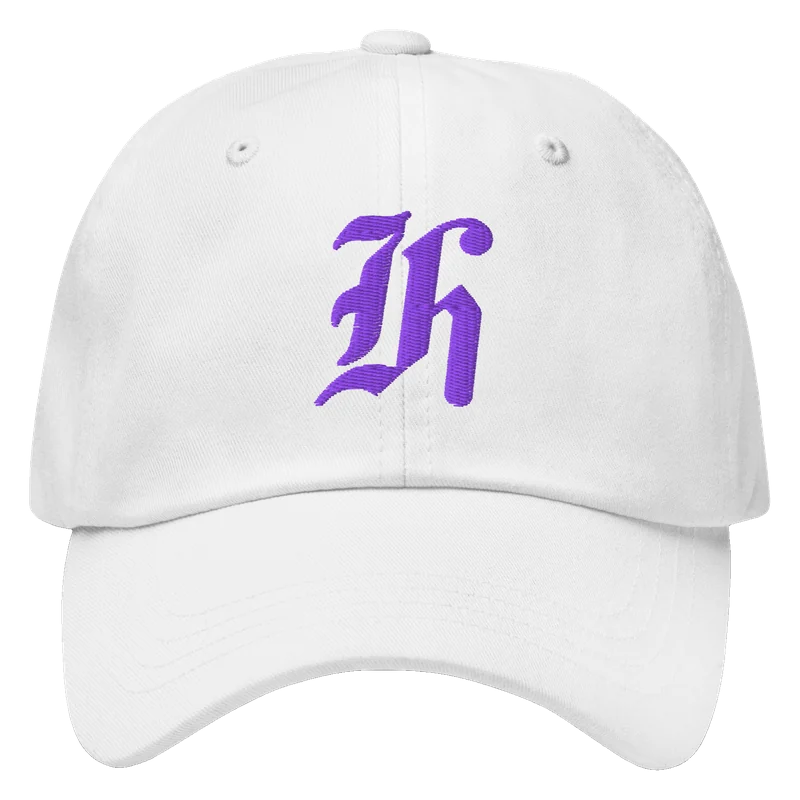
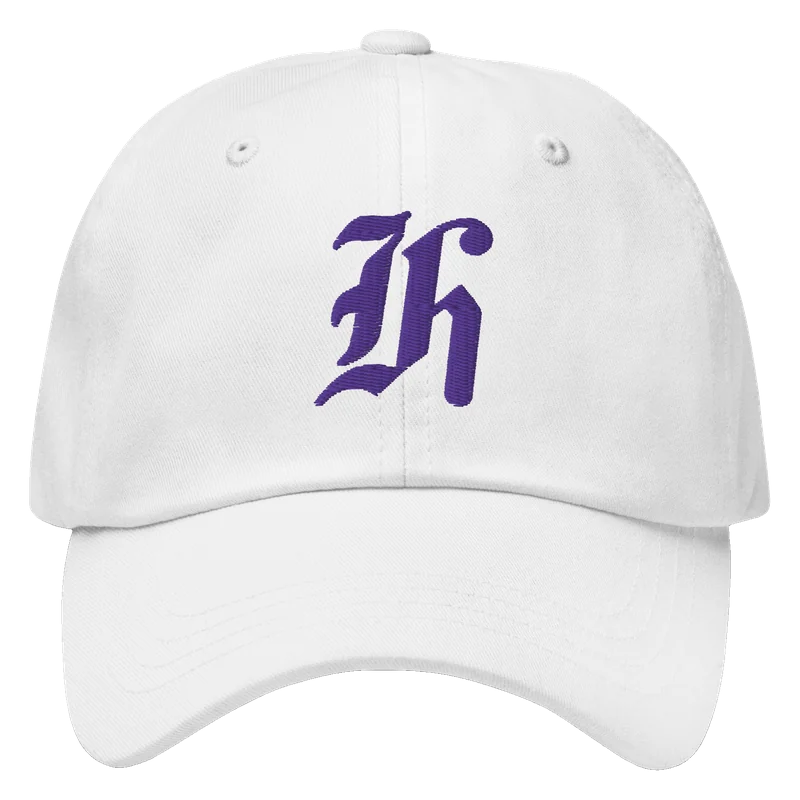
Hattiesburg polish: postcard letters lift + ribbon names the place (legend removed); black leads two tee cards; OE hat purple corrected
- Hero: the OS-style tooltip pill and red focus ring are gone, and so is the letter legend under the
  postcard (it duplicated the Shop by place cards two sections down and asked shoppers to decode
  letters). On fine pointers, hovering a letter lifts it off the card and the postcard's own red
  ribbon swaps "THE HUB CITY · MISSISSIPPI" for the place's name in the same Oswald lettering.
  Sprites and ribbon captions are cut from the same deterministic render (pixel-identical outside
  the ribbon text), ~190 KB per layout, loaded on first hover only (touch taps go straight to the
  place, 0 extra requests). Keyboard focus shows the lift + caption plus a 2px ink ring; reduced
  motion drops the lift.
- Cards: Camelot Music Cloverleaf Sign Tee and Albert Speed's Restaurant Sign Tee now lead with
  black (family order + START_HERE), so they differ from the white/natural tee beside them.
- Old English H hat: Printful's mockup renders thread 1832 (Madeira "Majestic Purple") as a vivid
  violet (#8147CD); Printful's swatch is #6B5294 and the supplier's cone photo reads ~#321968.
  The site's hat views (and its two on-model shots, now local photos via PHOTO_IMAGES) are pulled
  to L*30/C*48 so the listing shows the deep purple that actually ships.
- Hammond: markup unchanged; only the shared hero CSS rules differ.

Claude-Session: https://claude.ai/code/session_01TqhzTg1EJZZfGMFmW7WiyP

Changed region(s): [[0.4062, 0.25, 0.625, 0.5312]]

diff --git a/src/v2/v2.css b/src/v2/v2.css
@@ -116,17 +116,20 @@ p, li, figcaption { text-wrap: pretty; }
 .hb-hero__art { position: relative; margin: 0; }
 .hb-hero__card { position: relative; border-radius: 6px; box-shadow: 0 2px 4px rgba(30,26,22,.12), 0 18px 44px rgba(30,26,22,.20); background: #f7f2e6; }
 .hb-hero__card img { width: 100%; height: auto; border-radius: 6px; }
-.hb-hero__card a.hb-hot { position: absolute; border-radius: 10px; }
-.hb-hero__card a.hb-hot:hover, .hb-hero__card a.hb-hot:focus-visible { box-shadow: 0 0 0 3px rgba(255,255,255,.9), 0 0 0 6px var(--brick); }
-.hb-hero__cap { margin: 14px 0 0; font-size: 13.5px; color: var(--ink-2); text-align: center; }
-.hb-legend { list-style: none; display: flex; flex-wrap: wrap; justify-content: center; gap: 6px 8px; margin: 10px 0 0; padding: 0; }
-.hb-legend a { display: inline-flex; align-items: center; gap: 7px; min-height: 30px; padding: 3px 10px 3px 4px; border-radius: 999px; background: var(--card); border: 1px solid var(--line); text-decoration: none; font-size: 13px; font-weight: 550; color: var(--ink); white-space: nowrap; }
-.hb-legend a:hover { border-color: var(--ink); }
-.hb-legend b { font: 800 11px/1 var(--sans); letter-spacing: .08em; background: var(--ink); color: var(--card); padding: 5px 7px; border-radius: 999px; }
-@media (hover: hover) and (min-width: 901px) {
-  .hb-hero__card a.hb-hot::after { content: attr(data-label); position: absolute; left: 50%; bottom: calc(100% + 10px); transform: translateX(-50%); white-space: nowrap; background: var(--ink); color: var(--card); font: 600 13px/1 var(--sans); padding: 8px 11px; border-radius: 8px; opacity: 0; pointer-events: none; transition: opacity .15s; }
-  .hb-hero__card a.hb-hot:hover::after, .hb-hero__card a.hb-hot:focus-visible::after { opacity: 1; }
-}
+/* Postcard letters: hovering (fine pointer) or focusing a letter lifts it off the card and the ribbon names its place.
+   No tooltip chrome; touch taps go straight to the place. The keyboard focus ring is the card's own ink. */
+.hb-hero__card a.hb-hot { position: absolute; z-index: 3; border-radius: 12px; outline: none; }
+.hb-hero__card a.hb-hot:focus-visible { box-shadow: 0 0 0 2px var(--card), 0 0 0 4px var(--ink); }
+.hb-pop { position: absolute; inset: 0; z-index: 2; pointer-events: none; }
+.hb-pop img { position: absolute; display: block; opacity: 0; max-width: none; border-radius: 0; }
+.hb-pop img:not([src]) { visibility: hidden; }
+.hb-pop__l { transform-origin: 50% 85%; transition: opacity .12s ease, transform .2s cubic-bezier(.2,.7,.3,1.2), filter .2s ease; }
+.hb-pop__l.is-on { opacity: 1; transform: translateY(-3.5%) scale(1.06) rotate(-1.2deg); filter: drop-shadow(0 10px 10px rgba(22, 30, 58, .38)) saturate(1.08); }
+.hb-pop__cap { transition: opacity .18s ease; }
+.hb-pop__cap.is-on { opacity: 1; }
+.hb-pop--stack { display: none; }
+@media (max-width: 900px) { .hb-pop--wide { display: none; } .hb-pop--stack { display: block; } }
+@media (prefers-reduced-motion: reduce) { .hb-pop__l, .hb-pop__l.is-on { transition: opacity .12s ease; transform: none; } }
 .hb-hero__ctas { display: flex; gap: 12px; flex-wrap: wrap; margin-top: 26px; }
 .hb-trust { display: flex; flex-wrap: wrap; gap: 10px 22px; margin: 26px 0 0; padding: 0; list-style: none; font-size: 14px; color: var(--ink-2); }
 .hb-trust li { display: flex; align-items: center; gap: 8px; }
@@ -142,10 +145,7 @@ p, li, figcaption { text-wrap: pretty; }
   .hb-picks img { width: 100%; aspect-ratio: 1; object-fit: contain; border-radius: 10px; background: var(--tile); border: 1px solid var(--tile-line); }
   .hb-picks__t { color: var(--ink-2); font-weight: 600; display: -webkit-box; -webkit-line-clamp: 2; -webkit-box-orient: vertical; overflow: hidden; }
   .hb-picks__p { font-weight: 700; font-size: 13px; }
-  .hb-hero__cap { text-align: left; }
   .hb-hero__card { transform: none; }
-  .hb-hero__cap { margin-top: 10px; }
-  .hb-legend { justify-content: flex-start; }
   .hb-hero__ctas { margin-top: 18px; gap: 10px; }
   .hb-hero__ctas .hb-btn { min-height: 48px; padding: 0 18px; font-size: 15.5px; }
   .hb-lede { margin-top: 10px; }

diff --git a/src/v2/towns/hattiesburg.ts b/src/v2/towns/hattiesburg.ts
@@ -185,7 +185,7 @@ const START_HERE = [
   'main-street-hattiesburg-framed-poster-18-12',
   'hub-city-drag-raceway-tee',
   'camelot-music-hat',
-  'albert-speeds-restaurant-sign-tee',
+  'albert-speeds-restaurant-sign-tee-black',
   'culpepper-body-paint-tee',
 ];
 // Not-affiliated line for a product, when it differs from its place's line.
@@ -211,9 +211,10 @@ const PAIRS: Pair[] = [
 // "family": one card in grids, linked colour swatches on the product page. First handle leads.
 const FAMILIES: string[][] = [
   ['beverly-drive-in-theatre-tee', 'beverly-drive-in-theatre-tee-natural'],
-  ['camelot-music-cloverleaf-sign-tee', 'camelot-music-cloverleaf-sign-tee-black'],
+  // Black leads these two so their cards differ from the white/natural tee beside them (Brad 10-24).
+  ['camelot-music-cloverleaf-sign-tee-black', 'camelot-music-cloverleaf-sign-tee'],
   ['culpepper-body-paint-tee', 'culpepper-body-paint-tee-black'],
-  ['albert-speeds-restaurant-sign-tee', 'albert-speeds-restaurant-sign-tee-black'],
+  ['albert-speeds-restaurant-sign-tee-black', 'albert-speeds-restaurant-sign-tee'],
   ['old-english-h-pocket-tee', 'old-english-h-pocket-tee-black'],
   ['camelot-music-hat', 'camelot-music-hat-dark'],
   ['old-english-h-hat', 'old-english-h-hat-black'],
@@ -273,6 +274,8 @@ export const hattiesburg: TownContent = {
   includeTags: () => true,
   PRODUCT_IMAGES: productImages as Record<string, string>,
   OPAQUE_IMAGES: opaqueImages,
+  // Old English H hat on-model shots, kept local so the thread colour matches the corrected product views.
+  PHOTO_IMAGES: ['classic-dad-hat-stone-right-6adc6f66ccea8', 'classic-dad-hat-white-right-6adc6f66ccced'],
   DETAIL, DETAIL_DIR: '/images/hb/detail',
   // Sock mockups re-rendered upright (Printful shows the front sock toe-up).
   SOCK_FIX: ['old-english-h-gym-socks', 'camelot-music-socks', 'hub-city-drag-raceway-socks', 'albert-speeds-socks'], SOCK_DIR: '/images/hb/socks',

diff --git a/src/v2/catalog.ts b/src/v2/catalog.ts
@@ -142,7 +142,8 @@ export function localFor(url: string): string | null {
 // Opaque photos on Shopify (the lifestyle view has a studio background), by file name, per town; written by
 // scripts/opaque_images.py. They don't get the cut-out drop-shadow. A local knock-out above is transparent, so it wins.
 const OPAQUE = new Set<string>(OPAQUE_IMAGES);
-export const isCut = (url: string) => !!localFor(url) || !OPAQUE.has(baseName(url));
+const PHOTO = new Set<string>(TOWN.PHOTO_IMAGES || []);
+export const isCut = (url: string) => (!!localFor(url) && !PHOTO.has(baseName(url))) || !OPAQUE.has(baseName(url));
 export function cdn(url: string, w: number): string {
   const loc = localFor(url);
   if (loc) return `${loc}-${LOCAL_W.find((x) => x >= w) || 1080}.webp`;

diff --git a/src/v2/shared.ts b/src/v2/shared.ts
@@ -95,6 +95,7 @@ export type TownContent = {
   includeTags: (tags: string[]) => boolean;
   PRODUCT_IMAGES: Record<string, string>;   // Shopify image basename -> local cut-out base path
   OPAQUE_IMAGES: string[];                   // Shopify image basenames that are opaque photos (no cut-out shadow); scripts/opaque_images.py
+  PHOTO_IMAGES?: string[];                   // local copies that are still opaque photos (colour-corrected on-model shots)
   DETAIL: string[]; DETAIL_DIR: string;      // print close-ups: <DETAIL_DIR>/<handle>-(360|540|800).webp
   SOCK_FIX: string[]; SOCK_DIR: string;
   STALE_IMAGE: RegExp | null;
